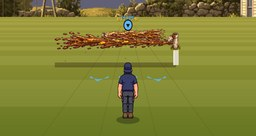
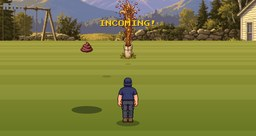
Cleanout Blowout: back to basics - just poop geysers, steer out from under the shadows (always a way through)
Claude-Session: https://claude.ai/code/session_01QR4rFRbYTeq9tRTzXkRUE8

diff --git a/arcade/games.js b/arcade/games.js
@@ -200,13 +200,13 @@ GAMES.push({
 //    open septic holes, rolling trash cans, hose reels, geysers raining turds and corn (watch the shadows),
 //    TP rolls to grab and toolboxes to bust open.
 GAMES.push({
-  id: 'sprinkler', name: 'CLEANOUT BLOWOUT', tag: 'Run the yard · jump, slide, dodge · grab the TP',
-  how: ['The whole line backed up and every cleanout in the yard blew its cap. RUN FOR THE VAN.', 'JUMP the brown jets. Tap for a hop, HOLD for a big jump (the tall blasts and the long septic holes need a big one).', 'SLIDE under the HIGH blasts that come out of the tall pipes (hold ▼ or the SLIDE button).', 'When a cleanout shoots STRAIGHT UP, turds and corn rain down: watch the SHADOWS and steer clear. Dodge rolling trash cans and hose reels.', 'GRAB the sparkly stuff: TP rolls (25 = a spare pair of pants) and toolboxes. AVOID anything brown.'],
+  id: 'sprinkler', name: 'CLEANOUT BLOWOUT', tag: 'Run the yard · dodge the poop geysers',
+  how: ['The whole line backed up and every cleanout in the yard is blowing. RUN FOR THE VAN.', 'Cleanouts shoot STRAIGHT UP and rain turds and corn down on the yard.', 'Watch the SHADOWS on the grass: that is where it lands. Steer out from under them (◀ ▶, the stick, or tap the sides).', 'Do not run into the cleanout pipes either. Get hit too many times and that is it for your pants.'],
   dpad: 'stick', stickH: true,
-  ctl: '◀ ▶ STEER · ▲/SPACE JUMP (HOLD = HIGHER) · ▼/SHIFT SLIDE',
-  act: 'JUMP', act2: 'SLIDE',
+  ctl: '◀ ▶ STEER',
+  act: null,
   init(s) {
-    s.DIST = [520, 620, 720][s.diff]; s.z = 0; s.v = 0; s.x = 0; s.tx = null; s.jy = 0; s.jv = 0; s.hold = 0; s.slide = 0; s.objs = []; s.next = 24; s.n = 0;
+    s.DIST = [520, 620, 720][s.diff]; s.z = 0; s.v = 0; s.x = 0; s.tx = null; s.jy = 0; s.jv = 0; s.hold = 0; s.slide = 0; s.objs = []; s.next = 22; s.n = 3;
     s.pantsMax = s.pants = [4, 3, 3][s.diff]; s.inv = 0; s.hits = 0; s.say = ''; s.sayT = 0; s.tp = 0; s.tpAll = 0; s.pops = []; s.fall = 0;
   },
   G: 30, D: 6, HY: 92, FY: 246, LW: 92, U: 58, XM: 1.35,
@@ -216,23 +216,10 @@ GAMES.push({
   pop(s, txt, col) { s.pops.push({ txt, col: col || '#fff', t: 0 }); },
   body(s) { return [s.jy, s.jy + (s.slide > 0 && s.jy <= 0 ? 0.75 : 1.7)]; },   /* feet to head (sliding: much lower) */
   touch(s, o, lo, hi, half) { const [a, b2] = this.body(s); return Math.abs((o.x || 0) - s.x) < (half || 0.45) && a < hi && b2 > lo; },
-  piece(s, z, ramp) {   /* one set piece of the yard, Crash style. Returns how far until the next one. */
-    const O = s.objs, R2 = () => s.rnd(), lane = () => Math.floor(R2() * 3) - 1, tpLine = (z0, x, n, h, dz) => { for (let i = 0; i < n; i++) { O.push({ k: 'tp', wz: z0 + i * (dz || 1.6), x, h: typeof h === 'function' ? h(i) : h }); s.tpAll++; } };
-    const opts = [['jet', 5], ['jetT', 2 + ramp * 3], ['jetH', 2 + ramp * 2], ['hole', 2 + ramp * 3], ['can', 2 + ramp * 2], ['reel', 3], ['box', 2]];
-    if (s.n > 2) opts.push(['gey', 3 + ramp * 2]);
-    let tot = opts.reduce((q, o) => q + o[1], 0), r = R2() * tot, k = opts[0][0]; for (const o of opts) { if ((r -= o[1]) <= 0) { k = o[0]; break; } }
-    const side = R2() < 0.5 ? -1 : 1;
-    if (k === 'jet' || k === 'jetT' || k === 'jetH') { const h = k === 'jet' ? 0.28 : k === 'jetT' ? 0.7 : 1.45, th = k === 'jetT' ? 0.9 : 0.45;   /* low ones hug the grass, tall ones are a WALL of it */   /* low: hop · tall: big jump · high: slide under */
-      O.push({ k: 'jet', wz: z, side, c: h, th, wob: R2() * 6, kind: k }, { k: 'pipe', wz: z, x: side * 2.1, tall: k === 'jetH' ? 1.7 : 0.75 });
-      if (k !== 'jetH') tpLine(z - 3, 0, 4, i => (k === 'jetT' ? 1.6 : 1.2) * Math.sin((i / 3) * Math.PI) + 0.4, 2); else tpLine(z - 2, lane(), 3, 0.3, 1.5);
-      return k === 'jetT' ? 16 : 13; }
-    if (k === 'dog') { const n = s.diff >= 1 && R2() < 0.4 + ramp * 0.3 ? 2 : 1; for (let i = 0; i < n; i++) O.push({ k: 'dog', wz: z + i * 7, side: i % 2 ? -side : side, x: side * 2.4, f: 0 }); tpLine(z - 4, 0, 3, 0.3, 1.3); return 12 + n * 6; }   /* leaps across at your head: slide or get bit */
-    if (k === 'hole') { const len = 3 + R2() * (2 + ramp * 3.5); O.push({ k: 'hole', wz: z, len }); tpLine(z, 0, Math.max(2, Math.floor(len / 1.6)), 1.4, 1.6); return 12 + len; }   /* open septic hole: jump the whole thing */
-    if (k === 'can') { const n = 1 + (R2() < ramp ? 1 : 0); for (let i = 0; i < n; i++) O.push({ k: 'can', wz: z + 10 + i * 6, x: lane(), vz: -(5 + R2() * 3), spin: 0 }); return 14 + n * 5; }   /* rolling at you: dodge or hop */
-    if (k === 'reel') { const l = lane(); O.push({ k: 'reel', wz: z, x: l }); if (R2() < 0.5 + ramp * 0.4) O.push({ k: 'reel', wz: z + 4, x: l === 0 ? side : 0 }); tpLine(z - 2, l === 0 ? -side : 0, 4, 0.3, 1.5); return 13; }   /* hose reels: weave */
-    if (k === 'box') { const gold = R2() < 0.18; O.push({ k: 'box', wz: z, x: lane(), gold }); return 10; }   /* toolbox: bust it open */
-    if (k === 'gey') { O.push({ k: 'gey', wz: z, x: lane(), fired: false, col: 0 }); return 30 - 6 * ramp; }
-    return 12; },
+  piece(s, z, ramp) {   /* just geysers now: one, or a pair, blowing up ahead of you */
+    const O = s.objs, lane = () => Math.floor(s.rnd() * 3) - 1, l = lane(); O.push({ k: 'gey', wz: z, x: l, fired: false, col: 0 });
+    if (s.rnd() < 0.15 + ramp * 0.35) O.push({ k: 'gey', wz: z + 14, x: l === 0 ? (s.rnd() < 0.5 ? -1 : 1) : -l, fired: false, col: 0 });   /* a second one, a beat later */
+    return 30 - 5 * ramp; },
   update(s, dt, I) {
     s.t += dt; s.inv = Math.max(0, s.inv - dt); s.shake = Math.max(0, (s.shake || 0) - dt); s.sayT = Math.max(0, s.sayT - dt); s.fall = Math.max(0, s.fall - dt);
     s.pops.forEach(p => p.t += dt); s.pops = s.pops.filter(p => p.t < 1);
@@ -244,10 +231,10 @@ GAMES.push({
     s.x = clamp(s.x, -this.XM, this.XM);
     // jump: tap = hop, hold = big jump.  slide: hold down
     const tapMid = I.ptr.clicked && I.ptr.x / W >= 0.33 && I.ptr.x / W <= 0.67, held = I.A || I.U || (I.ptr.down && I.ptr.x / W >= 0.33 && I.ptr.x / W <= 0.67);
-    if ((I.Ap || I.Up || tapMid) && s.jy <= 0 && s.fall <= 0) { s.jv = 7.2; s.hold = 0.28; s.slide = 0; SFX('ui_tap', { vol: 0.3 }); }
+    if (false && (I.Ap || I.Up || tapMid) && s.jy <= 0 && s.fall <= 0) { s.jv = 7.2; s.hold = 0.28; s.slide = 0; SFX('ui_tap', { vol: 0.3 }); }
     if (s.hold > 0) { s.hold -= dt; if (!held) s.hold = 0; }
     if (s.jy > 0 || s.jv > 0) { s.jv -= this.G * (s.hold > 0 && s.jv > 0 ? 0.35 : 1) * dt; s.jy = Math.max(0, s.jy + s.jv * dt); if (s.jy <= 0) { s.jv = 0; s.hold = 0; } }
-    s.slide = (I.B || I.D) && s.jy <= 0 ? Math.min(1, s.slide + dt * 8) : Math.max(0, s.slide - dt * 6);
+    s.slide = 0;
     // the yard ahead
     if (s.z + 75 > s.next && s.next < s.DIST - 30) { s.n++; s.next += this.piece(s, s.next, ramp) * (1.05 - 0.2 * ramp); }
     for (const o of s.objs) {
@@ -256,9 +243,12 @@ GAMES.push({
       const rel = o.wz - s.z, prev = o.rel == null ? rel : o.rel; o.rel = rel;
       if (o.k === 'gey' && !o.fired && rel < 30) {   // it blows straight up: the fallout lands around YOU
         o.fired = true; o.col = 1.3; SFX('gurgle', { vol: 0.8 }); s.say = 'INCOMING!'; s.sayT = 1;
-        const n = [4, 5, 6][s.diff] + Math.floor(ramp * 2);
-        for (let i = 0; i < n; i++) { const wz = s.z + 8 + i * (24 / n) + s.rnd() * 1.2, tt = (wz - s.z) / s.v + 0.15, corn = s.rnd() < 0.4;
-          s.objs.push({ k: corn ? 'corn' : 'turd', wz, x: Math.floor(s.rnd() * 3) - 1, h: 0.5 * this.G * 0.4 * tt * tt, vh: 0, spin: s.rnd() * 6 }); } }
+        const rows = [3, 4, 5][s.diff] + Math.floor(ramp * 2), gap = 7 - ramp;   /* rows of fallout. A SAFE lane wanders one step at a time, so there's always a way through */
+        let safe = Math.round(s.x), prevSafe = safe;
+        for (let r = 0; r < rows; r++) { const wz0 = s.z + 9 + r * gap; prevSafe = safe; if (s.rnd() < 0.5) safe = Math.max(-1, Math.min(1, safe + (s.rnd() < 0.5 ? -1 : 1)));
+          for (const q of s.objs) if (q.k === 'gey' && Math.abs(wz0 - q.wz) < 5 && safe === q.x) safe = q.x === 0 ? (prevSafe === 0 ? (s.rnd() < 0.5 ? -1 : 1) : prevSafe) : 0;   /* never route you into a pipe */
+          const can = [-1, 0, 1].filter(x => x !== safe && x !== prevSafe), L3 = can.length === 2 && s.rnd() < 0.35 + ramp * 0.4 ? can : can.sort(() => s.rnd() - 0.5).slice(0, 1);
+          for (const x of L3) { const wz = wz0 + s.rnd() * 0.8, tt = (wz - s.z) / s.v + 0.15, corn = s.rnd() < 0.4; s.objs.push({ k: corn ? 'corn' : 'turd', wz, x, h: 0.5 * this.G * 0.4 * tt * tt, vh: 0, spin: s.rnd() * 6 }); } } }
       if (o.k === 'gey') o.col = Math.max(0, o.col - dt);
       if (o.k === 'turd' || o.k === 'corn') { if (o.h > 0) { o.vh -= this.G * 0.4 * dt; o.h = Math.max(0, o.h + o.vh * dt); if (o.h <= 0) o.landed = true; } }
       if (o.gone) continue;
@@ -278,7 +268,7 @@ GAMES.push({
     }
     s.objs = s.objs.filter(o => o.wz - s.z > -(o.len || 0) - 4);
     if (s.pants <= 0) s.end = { win: false, stars: 0, line: 'You did not make it to the van. You are not getting IN the van, either.' };
-    else if (s.z >= s.DIST) { SFX('door'); const pct = s.tpAll ? s.tp / s.tpAll : 1; s.end = { win: true, stars: stars3(s.hits === 0 && pct >= 0.6, s.hits <= 1), line: (s.hits ? `Made the van. Hit ${s.hits}x.` : 'Not a speck on you!') + ` ${s.tp} TP rolls.` + (s.hits ? ' Rod makes you ride in the back.' : ' Rod lets you ride up front.') }; }
+    else if (s.z >= s.DIST) { SFX('door'); s.end = { win: true, stars: stars3(s.hits === 0, s.hits <= 1), line: s.hits ? `Made the van. Hit ${s.hits}x. Rod makes you ride in the back.` : 'Not a speck on you! Rod lets you ride up front.' }; }
   },
   draw(s) {
     const { HY, FY, D } = this, sh = s.shake > 0 ? (Math.random() - 0.5) * 6 : 0, t = s.t;
@@ -352,10 +342,9 @@ GAMES.push({
     g.restore();
     R(0, 0, W, 16, 'rgba(16,21,31,.92)'); T('CLEANOUT BLOWOUT', 6, 8, '#f7c418', 7); T('VAN ' + Math.max(0, Math.ceil((s.DIST - s.z) * 1.5)) + ' FT', W - 6, 8, '#fff', 7, 'right');
     BAR(150, 5, 120, 6, Math.min(1, s.z / s.DIST), '#7bd65b'); PANTS(s, 6, 22);
-    { const x0 = W - 60, y0 = 28; if (!this.img('cb_tp', x0 - 2, y0 + 10, 22)) { g.fillStyle = '#f4f2ea'; g.fillRect(x0 - 6, y0 - 7, 10, 14); } T('x' + s.tp, x0 + 10, y0, '#fff', 8); }   /* TP count */
     if (s.sayT > 0) T(s.say, 240, 60, s.say === 'INCOMING!' ? '#f7c418' : '#e9665a', 12, 'center');
     s.pops.forEach((p, i) => T(p.txt, 240, 84 - p.t * 20 - i * 12, p.col, 9, 'center'));
-    if (s.t < 5) { R(80, 30, 320, 34, 'rgba(16,21,31,.75)'); T('✦ SPARKLY = GRAB IT    BROWN = AVOID IT', 240, 40, '#fff4a0', 6, 'center'); T('TAP JUMP = HOP  ·  HOLD = BIG JUMP  ·  SLIDE UNDER', 240, 54, '#e8dcc0', 6, 'center'); }
+    if (s.t < 4) { R(100, 32, 280, 20, 'rgba(16,21,31,.75)'); T('WATCH THE SHADOWS  ·  STEER OUT FROM UNDER', 240, 42, '#fff', 6, 'center'); }
   },
 });
 

diff --git a/arcade/index.html b/arcade/index.html
@@ -174,7 +174,7 @@ function showPad() {
   const G = cur != null ? GAMES[cur] : null;
   $('#pad').classList.toggle('on', padOn && (phase === 'play' || phase === 'ready') && !(G && G.pad === false));
   $('#pad').classList.toggle('lefty', ((DDT.get() || {}).hand) === 'L');
-  $('#pad').classList.toggle('nodp', !!(G && G.dpad === false)); $('#pad').classList.toggle('lr', !!(G && G.dpad === 'lr')); $('#pad').classList.toggle('ud', !!(G && G.dpad === 'ud')); $('#pad').classList.toggle('stick', !!(G && (G.dpad === 'stick' || G.dpad === 'omni'))); $('#pad').classList.toggle('b2', !!(G && G.act2)); $('#pad').classList.toggle('crawl', !!(G && G.id === 'crawl')); $('#pad').classList.toggle('runner', !!(G && G.id === 'sprinkler')); if (G && G.act2) $('#act2').textContent = G.act2; STICK_OMNI = !!(G && G.dpad === 'omni'); STICK_H = !!(G && G.stickH);
+  $('#pad').classList.toggle('nodp', !!(G && G.dpad === false)); $('#pad').classList.toggle('lr', !!(G && G.dpad === 'lr')); $('#pad').classList.toggle('ud', !!(G && G.dpad === 'ud')); $('#pad').classList.toggle('stick', !!(G && (G.dpad === 'stick' || G.dpad === 'omni'))); $('#pad').classList.toggle('b2', !!(G && G.act2)); $('#pad').classList.toggle('crawl', !!(G && G.id === 'crawl')); if (G && G.act2) $('#act2').textContent = G.act2; STICK_OMNI = !!(G && G.dpad === 'omni'); STICK_H = !!(G && G.stickH);
   $('#actbtn').textContent = (G && G.act) || 'GO'; $('#actbtn').style.display = G && G.act === null ? 'none' : '';
   $('#padbtn').textContent = padOn ? 'PAD ON' : 'PAD';
 }
